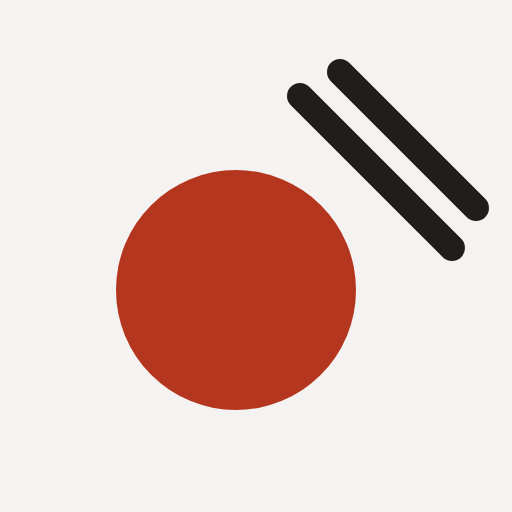
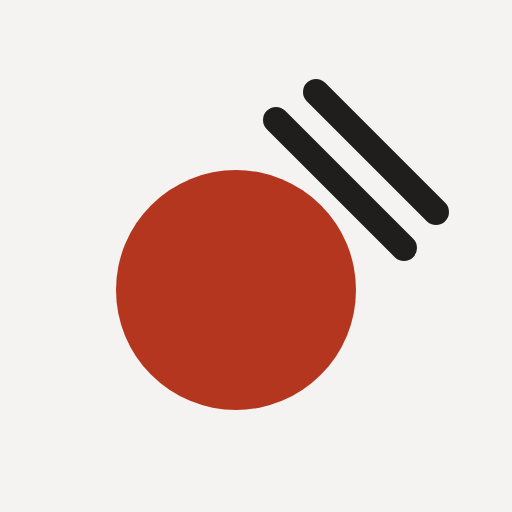
ロゴの箸を角丸の内側に収める
Claude-Session: https://claude.ai/code/session_016xSGxBShBZZJdN6qwtUe1a

Changed region(s): [[0.5, 0.0938, 0.9688, 0.5312]]

diff --git a/src/components/ui.tsx b/src/components/ui.tsx
@@ -12,7 +12,7 @@ export function BrandMark({ className }: { className?: string }) {
       <rect width="512" height="512" rx="128" fill="var(--surface)" />
       <circle cx="236" cy="290" r="120" fill="var(--accent)" />
       <path
-        d="M300 96L452 248M340 72L476 208"
+        d="M276 120L404 248M316 92L436 212"
         fill="none"
         stroke="var(--leaf)"
         strokeWidth="26"
